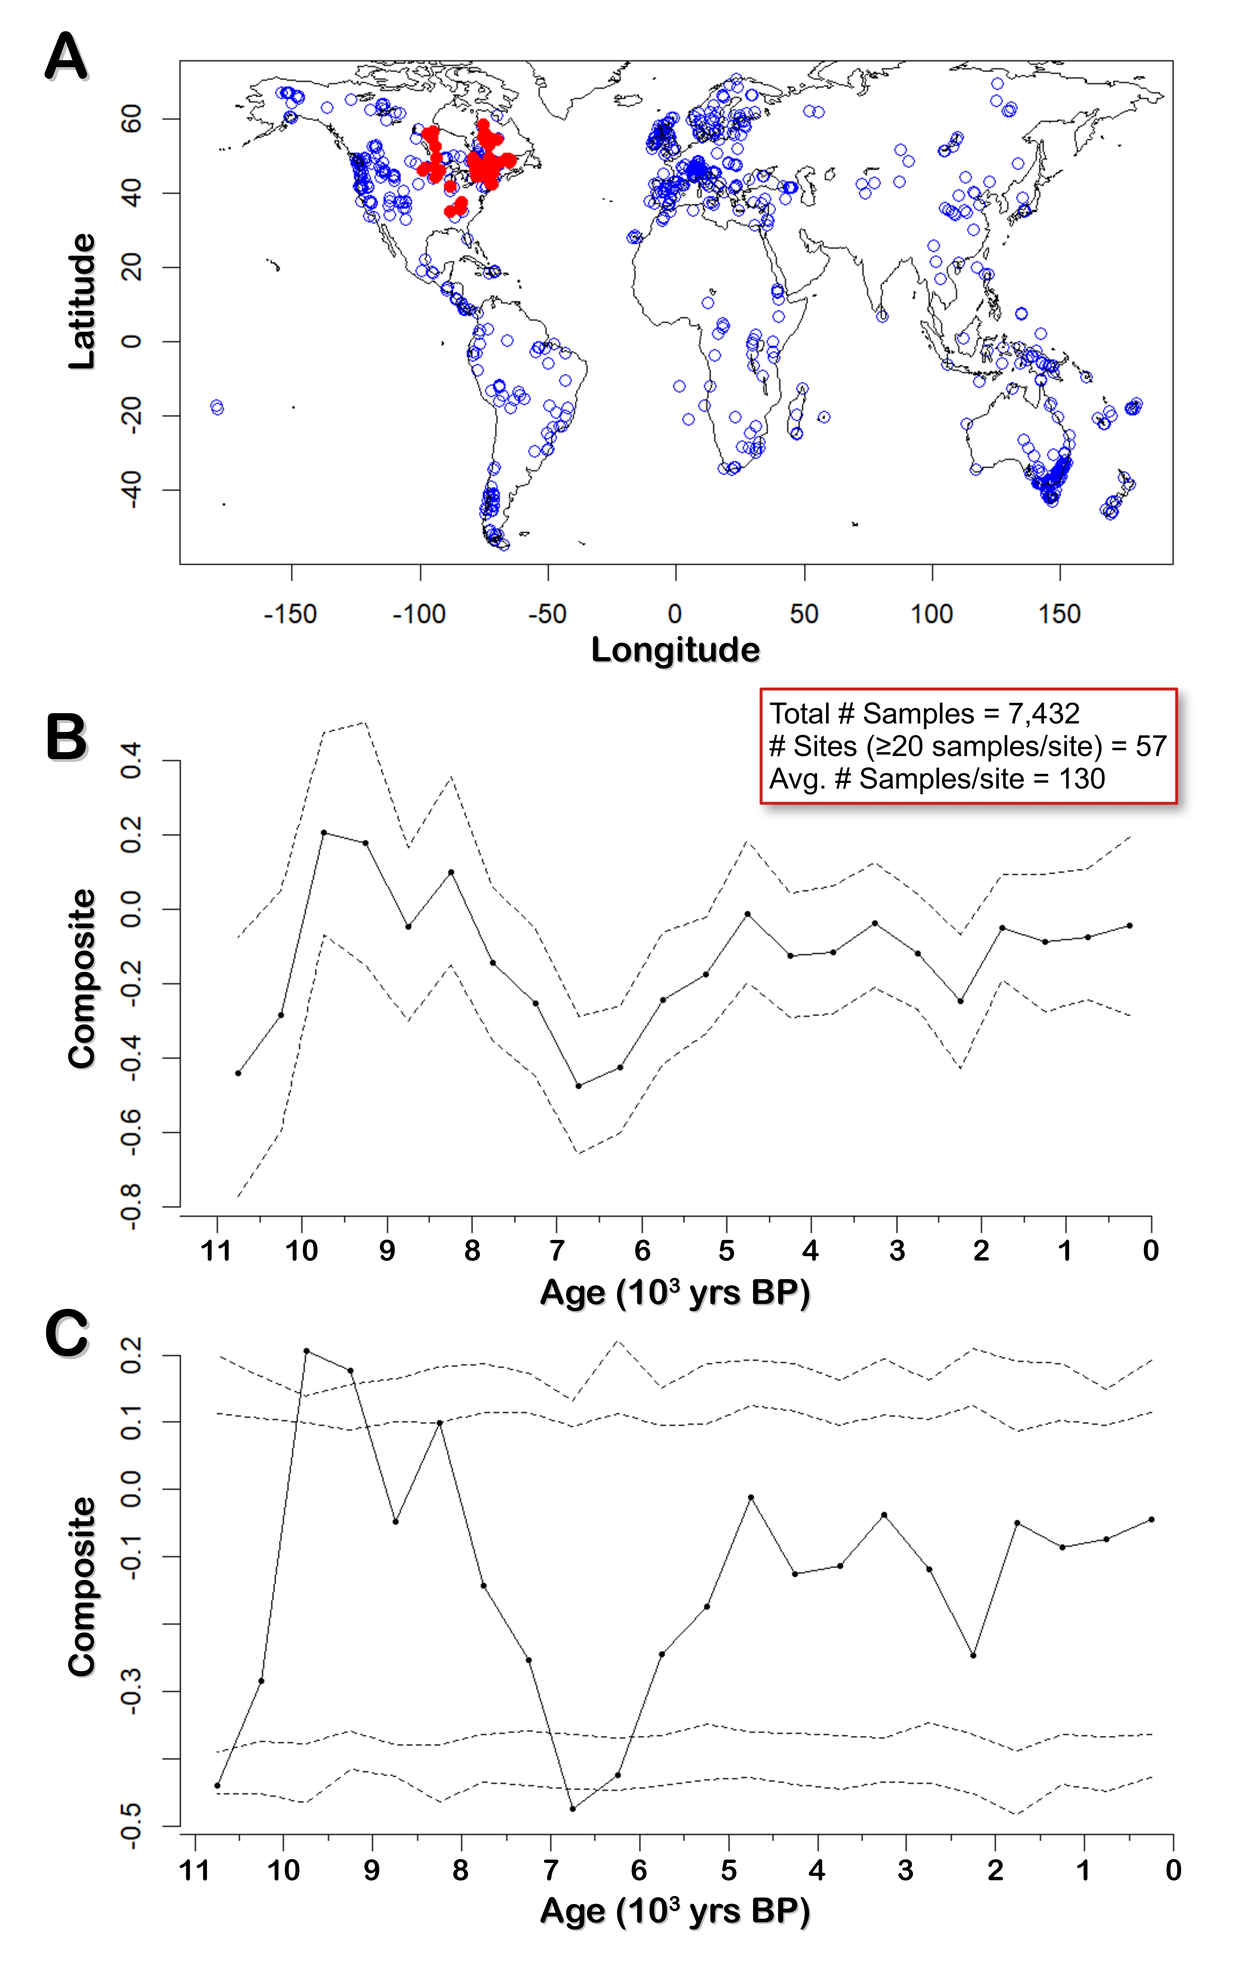
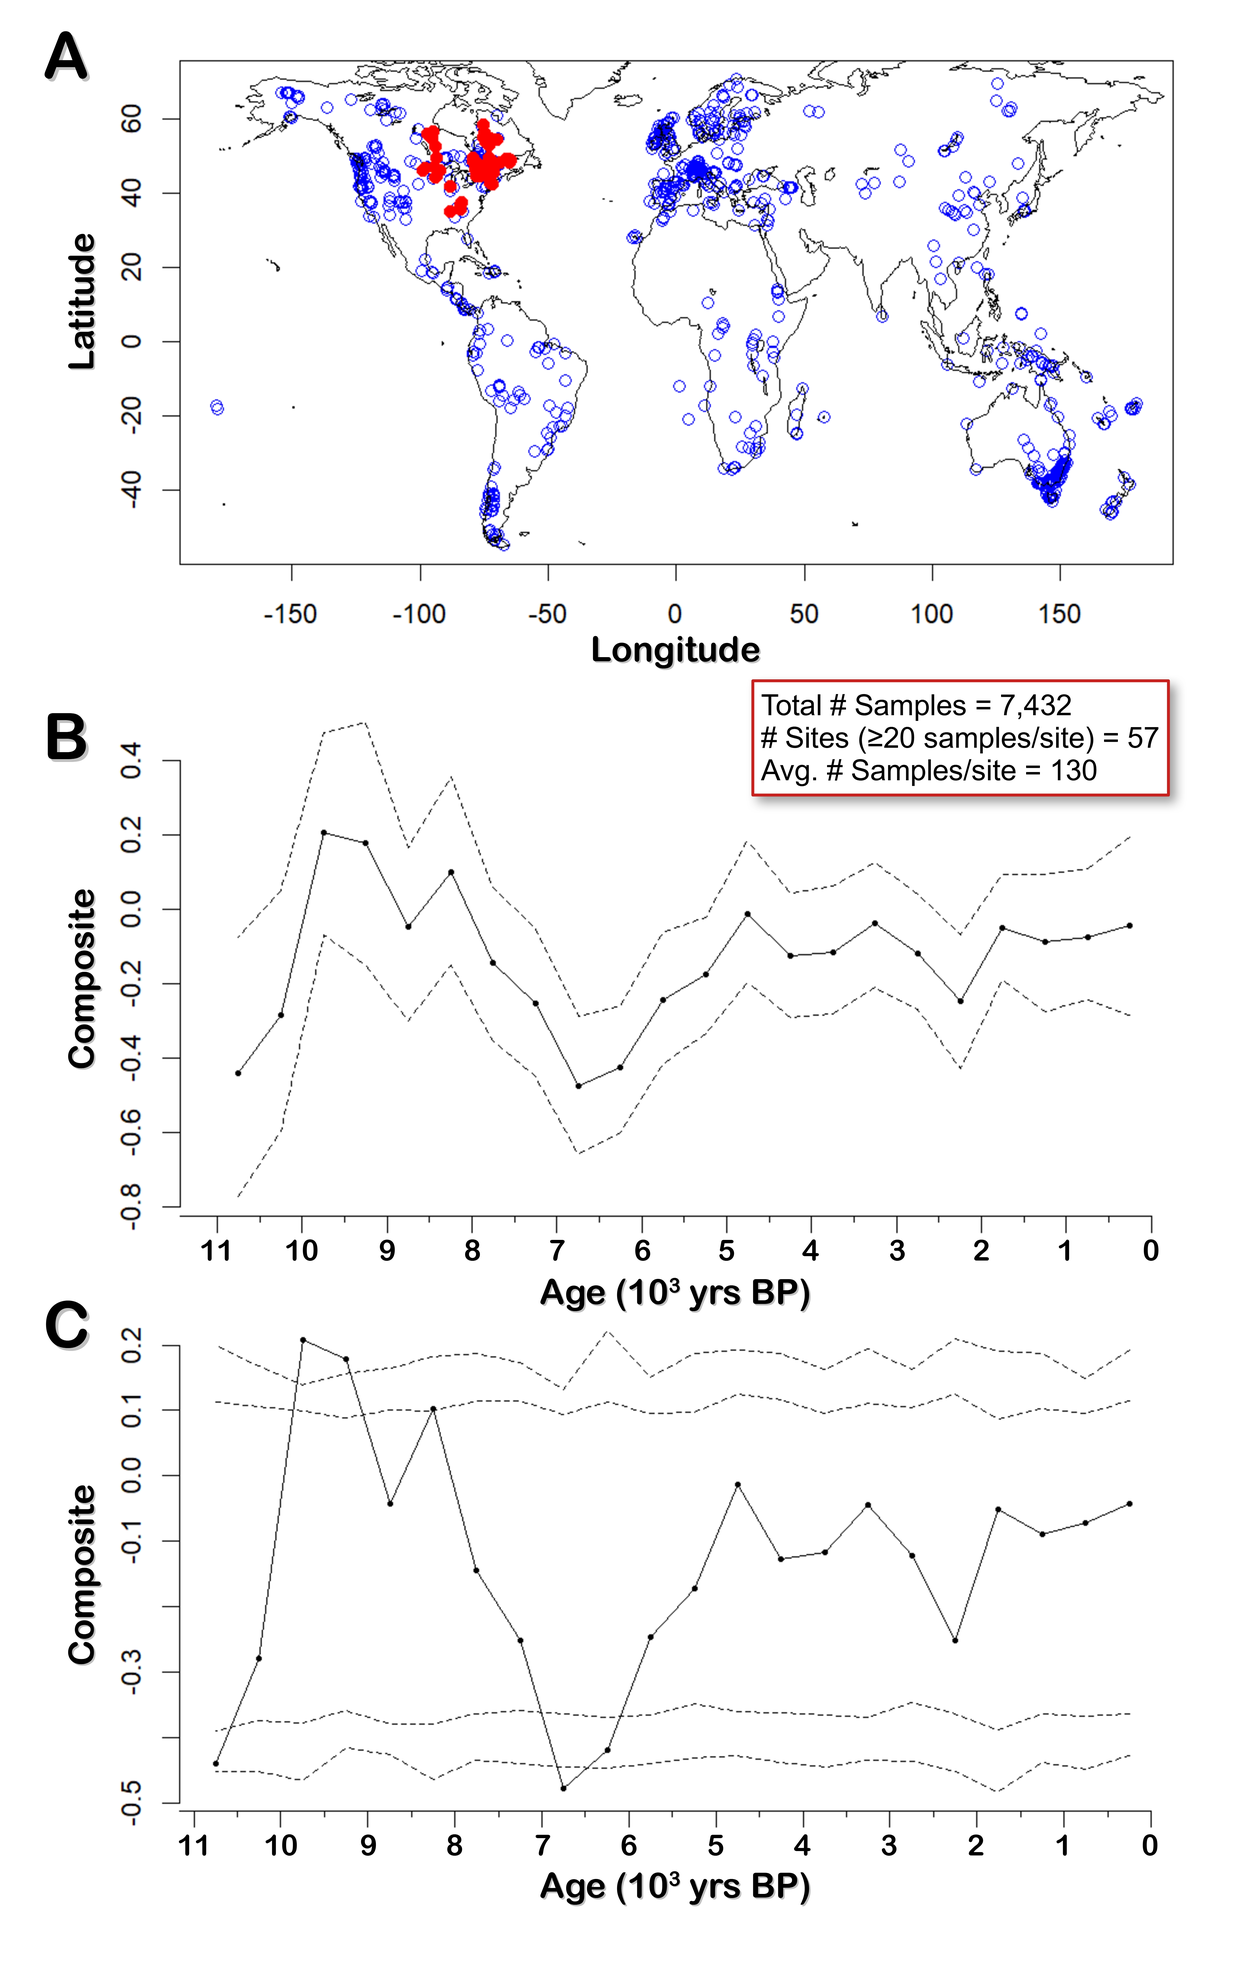
general text edit and added new pics to img folder

diff --git a/content/project/AboutOPC/index.md b/content/project/AboutOPC/index.md
@@ -29,7 +29,7 @@ layout: single
 
 .center {
   margin: auto;
-  width: 70%;
+  width: 90%;
   padding: 10px;
 }
 
@@ -182,17 +182,6 @@ where <strong>R</strong> = <sup>18</sup><span id="Red">O</span>/<sup>16</sup><sp
 
 The use of &delta;<sup>18</sup><span id="Red">O</span>, as well as other types of <b><a class="one" href="https://www.usgs.gov/programs/climate-research-and-development-program/science/paleoclimate-proxies">Paleoclimate Proxies</a></b> (e.g. pollen, spores, charcoal), has been particularly useful in determining the types of plant communities (i.e. **biomes**) that once populated North America since end of the last ice age ~11,700 **ya** (Note: designated end of the <b><a class="one" href="https://stratigraphy.org/chart">Pleistocene epoch</a></b>). Studies of pollen from across the province show relatively rapid changes in vegetation during the early part of the **Holocene**.**<sup>34-38</sup>** Deglaciated areas that once supported **Spruce** (*Picea spp.*) and tundra-like (herbs and shrubs) vegetation gave way to **Jack Pine** (*Pinus banksiana*), **Paper Birch** (*Betula papyrifera*) and a minor mix of other species (e.g. **Oaks**, **Ashes**, **Elms**, **Beech**). By ~10,000 **ya** a wide band of forests had developed along the trailing edge of the retreating ice sheet that stretched from eastern Alberta and southern Saskatchewan down through the mid-west and north-eastern United States.**<sup>38</sup>** However, by the **mid-Holocene** (~9,000 to 6,000 **ya**) the climate in North America became unusual warm and dry during the summer months.**<sup>38-40</sup>** This so-called <span id="Blue">H</span>olocene <span id="Blue">C</span>limate <span id="Blue">O</span>ptimum (<span id="Blue">HCO</span>) is thought to have been the major cause of the eastward migration of the western prairie and the subsequent expansion of <span id="Gr2">TGC</span> within southern Ontario. Cyclic changes in the earth's orbit (i.e. <b><a class="one" href="https://climate.nasa.gov/news/2948/milankovitch-orbital-cycles-and-their-role-in-earths-climate/">Milankovitch Cycles</a></b>) appears to be the main cause of the **mid-Holocene** warming event, a process referred to as **orbital forcing**.**<sup>41-44</sup>** However, it is interesting to note that the timing of the <span id="Blue">HCO</span> varied across the north. A review of **Holocene** proxy data from across the western Arctic (140 sites) revealed that in Alaska and northwest Canada warming started earlier at around 11,000 **ya** (lasting ~2,200 years), while in the Hudson Bay region and the Canadian Arctic islands warming started ~7,300 **ya** (lasting ~3,100 years) and ~8,600 **ya** (lasting ~3,400 years), respectively.**<sup>45</sup>** Clearly regional factors played a role in modifying the timing of the <span id="Blue">HCO</span> (e.g. ocean currents, albedo and temperature affects of large remnant ice sheets around Hudson Bay). Nevertheless, by ~7,000 **ya** Ontario (now ice free) had undergone noticeable changes in the composition of its forests. Pollen studies shows that both cool mixed forests (e.g. **Birch**, **Beech**, **White Pine**, **Hemlock**, **Cedar**) as well as the more southerly deciduous forests (e.g. **Sugar Maple**, **Ash**, **Oaks**, **Beech**, **Hickory**, **Chestnut**) had advanced further north beyond their current ranges.**<sup>34-38</sup>** The relatively stable levels of herbaceous plant pollen (i.e. grasses and forbs) during this time also suggests that open forested areas, like oak savannas, were part of the province's landscape. By the end of the <span id="Blue">HCO</span> (~4,000 **ya** to present) the climate in Ontario (and the rest of the continent) became cooler and wetter resulting in the southerly retreat of both the cool-mixed and temperate deciduous forests.**<sup>34-38</sup>** This wetter climate likely allowed forests to invade open areas leading to a mosaic of vegetation types within the province.  
 
-<!-- Paleo-Charcoal Fire Data Eastern North America -->
-<div class="center">
-<figure>
-<img src="images/PFireData_EasternNA.jpg" alt="" width="800px"/>
-
-<figcaption><b>Figure 1: North American Paleocharcoal Data - A Fire Proxy Record.</b> Buried charcoal provides is a useful proxy record of past fire regimes. Here charcoal data from 57 sites from across eastern North America were retrieved from the <b>PaleoFire Database</b>.  
-
-</figcaption>
-</figure>
-</div>
-
 **2.2 NATURAL DISTURBANCES:** <span id="Purple">GRAZING</span> **and** <span id="Red">FIRE</span>: Grasslands around the world are known for their periodic droughts, frequent <span id="Red">fires</span> and large numbers of <span id="Purple">grazing</span> (and burrowing) animals they support.**<sup>23</sup>** These abiotic and biotic factors often interact with one another to significantly alter the structure of grassland communities (e.g. species composition). Indeed, the abundance of fossil (i.e. plant, animal and charcoal) evidence suggests that a major **biome** shift (closed forest-to-open savanna/grassland ecosystems) occurred in North America during the early <b><a class="one" href="https://stratigraphy.org/chart">Miocene</a></b> (<b>Fig. 2</b>).**<sup>46-51</sup>**
 
 <!-- 66 My Cenozoic History -->
@@ -206,7 +195,19 @@ The use of &delta;<sup>18</sup><span id="Red">O</span>, as well as other types o
 </figure>
 
 &nbsp; &nbsp; The '*opening up*' of the continent (particularly the central Great Plains) coincided with the appearance of a large number of <span id="Purple">grazing</span> mammals (i.e. **ungulates**).**<sup>47-49</sup>** Fossils from these now extinct species (e.g. early horses, grazing rhinoceroses, proto-camels, early bison and antelopes) share many anatomical features associated with a grazing in wide open grassy plains (e.g. craniodental adaptations: high crown molars for grinding, large attachments sites for masticating muscles; cursorial adaptations: long leg bones for running). Not surprisingly, grasses have evolved their own strategies to counteract grazing by herbivores, such as the development of underground vegetative growth centers (e.g. **rhizomes**) and **silica** deposits within leaves and other parts of the plant.**<sup>23</sup>** The former allows grasses to survive and reproduce after major disturbances, such as <span id="Purple">grazing</span> and seasonal <span id="Red">fires</span>, while the latter presumably makes the plants less palatable to herbivores. These so-called silica '*deposits*' are actually polymers of soluble **silicic acid** (<span id="Gray">Si</span>(<span id="Red">O</span><span id="Blue">H</span>)<sub>4</sub>) that have been shown to take on a variety of shapes or morphologies (i.e. morphotypes).**<sup>52-54</sup>** The natural abundance of **silicon** (<span id="Gray">Si</span>) within the Earth's crust and soil (i.e. chemical weathering process, see <b>Fig. 2</b> legend) would suggest that it is taken up by the roots of most plants. However, it is *interesting* to note that the ability to accumulate <span id="Gray">Si</span> varies considerably among plants (i.e. 0.1-10% dry weight), with grasses and sedges (i.e. **graminoids**) being among the most '*active*' bio-accumulators of this ubiquitous element.**<sup>52,53</sup>** The nature of this '*active*' uptake is due to the presence of a dedicated <b><a class="one" href="https://www.rcsb.org/structure/7NL4">silicon transporter protein</a></b> within the roots of some plants.**<sup>55,56</sup>** Once taken up, the <span id="Gray">Si</span>(<span id="Red">O</span><span id="Blue">H</span>)<sub>4</sub> is transported via the **xylem** (i.e. vascular tissue) to different parts of the plant where it forms *opal-type* bodies (i.e. <span id="Gray">Si</span><span id="Red">O</span><sub>2</sub>&bull;<sub>*n*</sub><span id="Blue">H</span><sub>2</sub><span id="Red">O</span>), commonly referred to as **phytoliths**.**<sup>52,53</sup>** What makes these opal-type **phytoliths** so interesting to ecologists is that, like pollen and spores, they are durable microfossils that can serve as a useful taxonomic tool to reconstruct past vegetation communities. In fact, a study by Strömberg (2005) used phytoliths collected from several central Great Plain states as evidence for a forest-to-grassland transition during the early **Miocene** (11-24 million **ya**).**<sup>50,51</sup>**  
-&nbsp; &nbsp; Although it is still unclear as what caused this more open grassy landscape, it is likely some combination of self-promoting factors, such as climate seasonality (warm dry summers), fire (promoted by excess grassy fuel loads and lightning prone spring and summer conditions) and grazing (which stimulates vegetative growth of grasses). For example, studies have shown that spring burning of tallgrass prairies can stimulate the growth of some plant species, notably dominant grasses (e.g. <b><a class="one" href="https://plants.usda.gov/home/plantProfile?symbol=ANGE">Big bluestem</a></b>), while inhibiting the growth of others (i.e. forbs). However, when the investigators combined <span id="Red">fire</span> with <span id="Purple">grazing</span> then both tallgrasses and forbs do well (i.e. increase species diversity and richness).**<sup>57,58</sup>** As mentioned previously, prairie grasses like *A. gerardii* are adapted to tolerate <span id="Red">fires</span> owing to their underground reproductive structures (i.e. **rhizomes**). <span id="Red">Fire</span> not only clears the ground of dead decaying plant material, but also eliminates invasive <span id="Red">fire</span>-intolerant plants (e.g. shrubs and trees) that, if left unchecked, would change grasslands into wooded areas. In this way burning not only keeps the land open for sun-tolerant prairie plants (i.e. maintains ecosystem - positive feedback mechanism), but also limits the levels of nitrogen (from detrital biomass) in the soil. The latter is important given that nitrogen levels can negatively impact prairie plant diversity and function (i.e. carbon storage).**<sup>59,60</sup>** This positive interactions between <span id="Red">fire</span> and <span id="Purple">grazing</span> is likely due to the ruminant's preference for grasses over less palatable forbs. After all, the diet of <b><a class="one" href="https://www.worldwildlife.org/pages/how-bison-help-shape-the-northern-great-plains">Bison</a></b> (*Bison bison*), a '*true*' <b><a class="one" href="https://www.biointeractive.org/classroom-resources/some-animals-are-more-equal-others-keystone-species-and-trophic-cascades">Keystone Species</a></b> of the prairie, is almost exclusively grasses (i.e. 90%).**<sup>23,61-63</sup>** Consumption of dominant tallgrasses prevents them from forming thick canopies that would normally limit the amount of sunlight reaching the smaller forbs. The **Bison's** preference for previously burned areas also encourages the growth of the less palatable forbs.**<sup>63</sup>** The shifting plant populations (e.g. rise in less desirable forbs) likely causes the **Bison** to adapt and alter their grazing patterns (i.e. move around to find more tallgrasses) resulting in an increase in plant diversity across large areas (i.e. spatial heterogeneity).**<sup>23,62,63</sup>** So, its not hard to imagine how all these types of disturbances (e.g. <span id="Red">fire</span>, <span id="Purple">grazing</span>, **drought**, etc.), when spread out over space and time, lead to a healthy *mosaic* of habitats within the prairie. Nevertheless, determining how this network of disturbances ultimately controls <b><a class="one" href="https://www.biointeractive.org/classroom-resources/ants-grizzlies-general-rule-saving-biodiversity">biodiversity</a></b> will be a particularly important question to answer given the critical role biodiversity plays in ecosystem stability and productivity (e.g. ecosystem goods and services).**<sup>64-68</sup>**  
+&nbsp; &nbsp; Although it is still unclear as what caused this more open grassy landscape, it is likely a complex mix of interacting factors (e.g. orbital forcing &rArr; climate seasonality (warmer drier summers) &rArr; fire &rArr; stimulates excess grass growth &rArr; grazing &rArr; grassland diversity and growth (increased fuel loads) &rArr; more fire ...positive feedback). For example, studies have shown that spring burning of tallgrass prairies can stimulate the growth of some plant species, notably dominant grasses (e.g. <b><a class="one" href="https://plants.usda.gov/home/plantProfile?symbol=ANGE">Big bluestem</a></b>), while inhibiting the growth of others (i.e. forbs). However, when the investigators combined <span id="Red">fire</span> with <span id="Purple">grazing</span> then both tallgrasses and forbs do well (i.e. increase species diversity and richness).**<sup>57,58</sup>** As mentioned previously, prairie grasses like *A. gerardii* are adapted to tolerate <span id="Red">fires</span> owing to their underground reproductive structures (i.e. **rhizomes**). <span id="Red">Fire</span> not only clears the ground of dead decaying plant material, but also eliminates invasive <span id="Red">fire</span>-intolerant plants (e.g. shrubs and trees) that, if left unchecked, would change grasslands into wooded areas. In this way burning not only keeps the land open for sun-tolerant prairie plants (i.e. maintains ecosystem - positive feedback mechanism), but also limits the levels of nitrogen (from detrital biomass) in the soil. The latter is important given that nitrogen levels can negatively impact prairie plant diversity and function (i.e. carbon storage).**<sup>59,60</sup>** 
+
+<!-- Paleo-Charcoal Fire Data Eastern North America -->
+<div class="center">
+<figure>
+<img src="images/PFireData_EasternNA.jpg" alt="" width="700px"/>
+
+<figcaption><b>Figure 1: Charcoal Data: History of Fire in Eastern North America. (A)</b> Sedimentary charcoal records from 57 sites (red dots on map) in eastern North America were analyzed using the <b>paleofire</b> R package (<b><a class="one" href="https://www.paleofire.org/">Global Charcoal Database</a></b>).<b><sup>79</sup></b> <b>(B)</b> Reconstruction of past biomass burning was carried out as described by Blarquez and colleagues (2014).<b><sup>79</sup></b> Briefly, sites were selected based on location (latitude: 35&deg; to 60&deg;, longitude: -100&deg; to -40&deg;), number of geochronological controls (i.e. &ge; one per 2500 years) and number of samples (n &ge; 20). The charcoal records were standardized using a three-step transformation process: (i) mini-max data re-scaling (i.e. x&prime;<sub>&ii;</sub> = [x<sub>&ii;</sub> - x<sub>min.</sub>]/[x<sub>max</sub> - x<sub>min</sub>], where x&prime;<sub>&ii;</sub> is the min-max transformed value of the &ii;<sup><i>th</i></sup> sample and x<sub>max</sub> and x<sub>min.</sub> are the maximum and minimum values of the site's record); (ii) Box-Cox transformation of the data to '<i>normalize</i>' its distribution (i.e. a type of power transformation used to homogenize the variance and correct for skewness); and (iii) a final re-scaling of the data to Z-scores (i.e. x&prime;<sub>&ii;</sub> = [x<sub>&ii;</sub> - x<sub><i>mean</i></sub>]/[x<sub><i>sd</i></sub>], where x&prime;<sub>&ii;</sub> is re-scaled value of the &ii;<sup><i>th</i></sup> sample and x<sub>mean</sub> and x<sub><i>sd</i></sub> are the mean and standard deviation of the sample population).<b><sup>80,81</sup></b> Next, a data-binning procedure was used to calculate a composite <u>mean curve</u> (solid line). Bootstrap re-sampling (n = 1000 iterations) of the binned charcoal series was then used to calculate the 95% confident intervals (dashed lines). <b>(C)</b> A '<i>moving</i>' Bootstrap analysis was also carried out on the data. This method selects (with replacement) random <u>overlapping blocks</u> of data to reconstruct new charcoal series. These are in turn used to estimate the confidence intervals around the series composite mean. Lines represent the composite mean (black line) and associated confidence intervals (dashed lines: 99.5<sup>th</sup>, 97.5<sup>th</sup>, 2.5<sup>th</sup> and 0.5<sup>th</sup> bootstrapped percentiles).
+</figcaption>
+</figure>
+</div>
+
+This positive interactions between <span id="Red">fire</span> and <span id="Purple">grazing</span> is likely due to the ruminant's preference for grasses over less palatable forbs. After all, the diet of <b><a class="one" href="https://www.worldwildlife.org/pages/how-bison-help-shape-the-northern-great-plains">Bison</a></b> (*Bison bison*), a '*true*' <b><a class="one" href="https://www.biointeractive.org/classroom-resources/some-animals-are-more-equal-others-keystone-species-and-trophic-cascades">Keystone Species</a></b> of the prairie, is almost exclusively grasses (i.e. 90%).**<sup>23,61-63</sup>** Consumption of dominant tallgrasses prevents them from forming thick canopies that would normally limit the amount of sunlight reaching the smaller forbs. The **Bison's** preference for previously burned areas also encourages the growth of the less palatable forbs.**<sup>63</sup>** The shifting plant populations (e.g. rise in less desirable forbs) likely causes the **Bison** to adapt in kind (i.e. move around to find more tallgrasses) resulting in an increase in plant diversity across large areas (i.e. promote spatial heterogeneity).**<sup>23,62,63</sup>** So, its not hard to imagine how all these types of disturbances (e.g. <span id="Red">fire</span>, <span id="Purple">grazing</span>, **drought**, etc.), when spread out over space and time, lead to a healthy *mosaic* of habitats within the prairie. Nevertheless, determining how this network of disturbances ultimately controls <b><a class="one" href="https://www.biointeractive.org/classroom-resources/ants-grizzlies-general-rule-saving-biodiversity">biodiversity</a></b> will be a particularly important question to answer given the critical role biodiversity plays in ecosystem stability and productivity (e.g. ecosystem goods and services).**<sup>64-68</sup>**  
 
 
 ---
@@ -289,6 +290,9 @@ The use of &delta;<sup>18</sup><span id="Red">O</span>, as well as other types o
 **76.** Dilek Y. and Furnes H. (2011). Ophiolite genesis and global tectonics: Geochemical and tectonic fingerprinting of ancient oceanic lithosphere. Geological Society of America Bulletin 123(3-4):387-411.  
 **77.** Jagoutz O., Macdonald F.A. and Royden L. (2016). Low-latitude arc–continent collision as a driver for global cooling. Proceedings of the National Academy of Sciences 113(18):4935-4940.  
 **78.** Macdonald F.A., Swanson-Hysell N.L., Park Y., Lisiecki L. and Jagoutz O. (2019). Arc-continent collisions in the tropics set Earth’s climate state. Science 364(6436):181-184.  
+**79.** Blarquez O., Vannière B., Marlon J.R., Daniau A.-L. Power M.J. Brewer S. and Bartlein P.J. (2014). Paleofire: An R package to analyse sedimentary charcoal records from the Global Charcoal Database to reconstruct past biomass burning. Computers and Geosciences 72:255-261.  
+**80.** Power M.J., Marlon J., Ortiz N., Bartlein P.J., Harrison S.P., Mayle F.E., Ballouche A., Bradshaw R.H., Carcaillet C., Cordova C. and Mooney S. (2008). Changes in fire regimes since the Last Glacial Maximum: an assessment based on a global synthesis and analysis of charcoal data. Climate dynamics 30(7):pp.887-907.  
+**81.** Box G.E. and Cox D.R. (1964). An analysis of transformations. Journal of the Royal Statistical Society: Series B (Methodological) 26(2):211-243.  
 
 
 <hr style="border:2px solid gray">
